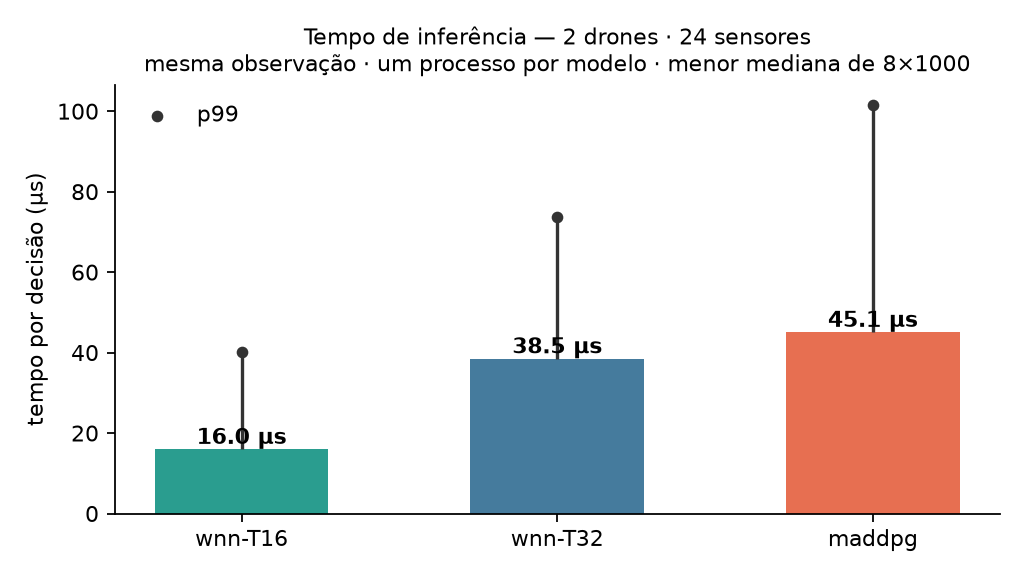
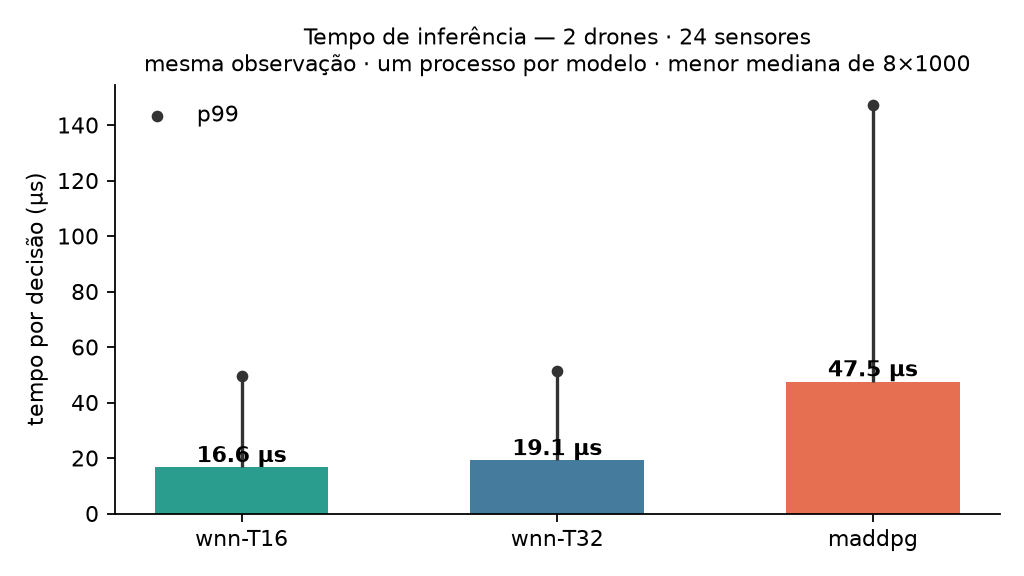
chore(spec-03): regenera as análises — buffers simétricos e T16 já no 50 M
wnn-T16 agora mede o deploy promovido de 50 M (22.453 entradas, 289 KB em
disco). Tempos desta rodada: 16,6 / 19,1 / 47,5 µs (um treino ainda ao fundo).

diff --git a/reports/spec03-latencia-memoria-a2s24.md b/reports/spec03-latencia-memoria-a2s24.md
@@ -6,13 +6,13 @@ Gerado por `scripts/spec03_latencia_memoria.py` em 2026-08-27 · x86_64 · mesma
 
 | modelo | mediana | p99 |
 | --- | --- | --- |
-| wnn-T16 | 16.0 µs | 40.0 µs |
-| wnn-T32 | 38.5 µs | 73.7 µs |
-| maddpg | 45.1 µs | 101.5 µs |
+| wnn-T16 | 16.6 µs | 49.7 µs |
+| wnn-T32 | 19.1 µs | 51.3 µs |
+| maddpg | 47.5 µs | 147.2 µs |
 
-- wnn-T16 é **2.8×** mais rápida que o MADDPG
+- wnn-T16 é **2.9×** mais rápida que o MADDPG
 
-- wnn-T32 é **1.2×** mais rápida que o MADDPG
+- wnn-T32 é **2.5×** mais rápida que o MADDPG
 
 ## Memória, nas quatro leituras (KB)
 
@@ -33,7 +33,7 @@ Gerado por `scripts/spec03_latencia_memoria.py` em 2026-08-27 · x86_64 · mesma
 | --- | --- |
 | wnn-T16 | 17 MB |
 | wnn-T32 | 17 MB |
-| maddpg | 479 MB |
+| maddpg | 482 MB |
 
 ![tempos](spec03-latencia-a2s24.png)
 ![memória](spec03-memoria-a2s24.png)
